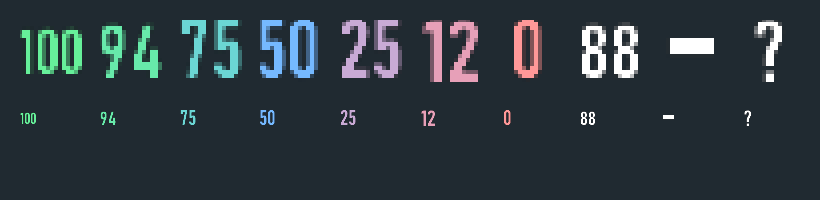
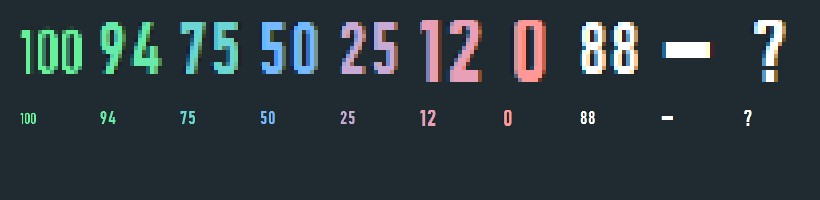
Tray digits: ClearType subpixel rendering baked for the dark taskbar (v0.4.3)

diff --git a/src/HeadsetBatteryTray.cs b/src/HeadsetBatteryTray.cs
@@ -520,7 +520,7 @@ class PilTahmin
 
 class Uygulama : ApplicationContext
 {
-    public const string Ad = "HeadsetBatteryTray", Surum = "0.4.2";
+    public const string Ad = "HeadsetBatteryTray", Surum = "0.4.3";
     const string RunAnahtar = @"Software\Microsoft\Windows\CurrentVersion\Run";
     const string RunAd = Ad, EskiRunAd = "ArctisPil";
 
@@ -881,7 +881,7 @@ class Uygulama : ApplicationContext
             foreach (char c in yazi)
             {
                 Rectangle r;
-                glifler.Add(Glif(c, aile, em, out r));
+                glifler.Add(Glif(c, aile, em, yazi.Length < 3 && SystemInformation.FontSmoothingType == 2, out r));
                 kutular.Add(r);
                 w += r.Width + ara;
                 if (r.Height > 0) { ust = Math.Min(ust, r.Top); alt = Math.Max(alt, r.Bottom); }
@@ -895,8 +895,13 @@ class Uygulama : ApplicationContext
                 for (int gy = 0; gy < r.Height; gy++)
                     for (int gx = 0; gx < r.Width; gx++)
                     {
-                        byte a = glifler[i][(r.Top + gy) * GlifKare + r.Left + gx];
-                        if (a > 0) o.SetPixel(x + gx, y + r.Top - ust + gy, Color.FromArgb(a, renk));
+                        int k = ((r.Top + gy) * GlifKare + r.Left + gx) * 3;
+                        byte[] q = glifler[i];
+                        int a = Math.Max(q[k], Math.Max(q[k + 1], q[k + 2]));
+                        if (a == 0) continue;
+                        Color z = Tema.GorevCubugu;
+                        Func<int, int, int, int> kanal = (hedef, zemin, kap) => Math.Max(0, Math.Min(255, zemin + (hedef - zemin) * kap / a));
+                        o.SetPixel(x + gx, y + r.Top - ust + gy, Color.FromArgb(a, kanal(renk.R, z.R, q[k]), kanal(renk.G, z.G, q[k + 1]), kanal(renk.B, z.B, q[k + 2])));
                     }
                 x += r.Width + ara;
             }
@@ -907,27 +912,28 @@ class Uygulama : ApplicationContext
 
     const int GlifKare = 128;
 
-    static byte[] Glif(char c, string aile, float em, out Rectangle kutu)
+    static byte[] Glif(char c, string aile, float em, bool clearType, out Rectangle kutu)
     {
-        byte[] a = new byte[GlifKare * GlifKare];
+        byte[] a = new byte[GlifKare * GlifKare * 3];
         using (Bitmap b = new Bitmap(GlifKare, GlifKare, System.Drawing.Imaging.PixelFormat.Format32bppArgb))
         {
             using (Graphics g = Graphics.FromImage(b))
             using (Font f = new Font(aile, em, FontStyle.Bold, GraphicsUnit.Pixel))
             {
-                g.TextRenderingHint = System.Drawing.Text.TextRenderingHint.AntiAliasGridFit;
+                g.Clear(Color.Black);
+                g.TextRenderingHint = clearType ? System.Drawing.Text.TextRenderingHint.ClearTypeGridFit : System.Drawing.Text.TextRenderingHint.AntiAliasGridFit;
                 g.DrawString(c.ToString(), f, Brushes.White, 8, 8, StringFormat.GenericTypographic);
             }
             System.Drawing.Imaging.BitmapData d = b.LockBits(new Rectangle(0, 0, GlifKare, GlifKare), System.Drawing.Imaging.ImageLockMode.ReadOnly, System.Drawing.Imaging.PixelFormat.Format32bppArgb);
             byte[] px = new byte[GlifKare * GlifKare * 4];
             Marshal.Copy(d.Scan0, px, 0, px.Length);
             b.UnlockBits(d);
-            for (int i = 0; i < a.Length; i++) a[i] = px[i * 4 + 3];
+            for (int i = 0; i < GlifKare * GlifKare; i++) { a[i * 3] = px[i * 4 + 2]; a[i * 3 + 1] = px[i * 4 + 1]; a[i * 3 + 2] = px[i * 4]; }
         }
         int x0 = GlifKare, y0 = GlifKare, x1 = -1, y1 = -1;
         for (int y = 0; y < GlifKare; y++)
             for (int x = 0; x < GlifKare; x++)
-                if (a[y * GlifKare + x] > 40) { x0 = Math.Min(x0, x); y0 = Math.Min(y0, y); x1 = Math.Max(x1, x); y1 = Math.Max(y1, y); }
+                if (Math.Max(a[(y * GlifKare + x) * 3], Math.Max(a[(y * GlifKare + x) * 3 + 1], a[(y * GlifKare + x) * 3 + 2])) > 40) { x0 = Math.Min(x0, x); y0 = Math.Min(y0, y); x1 = Math.Max(x1, x); y1 = Math.Max(y1, y); }
         kutu = x1 < 0 ? Rectangle.Empty : Rectangle.FromLTRB(x0, y0, x1 + 1, y1 + 1);
         return a;
     }
